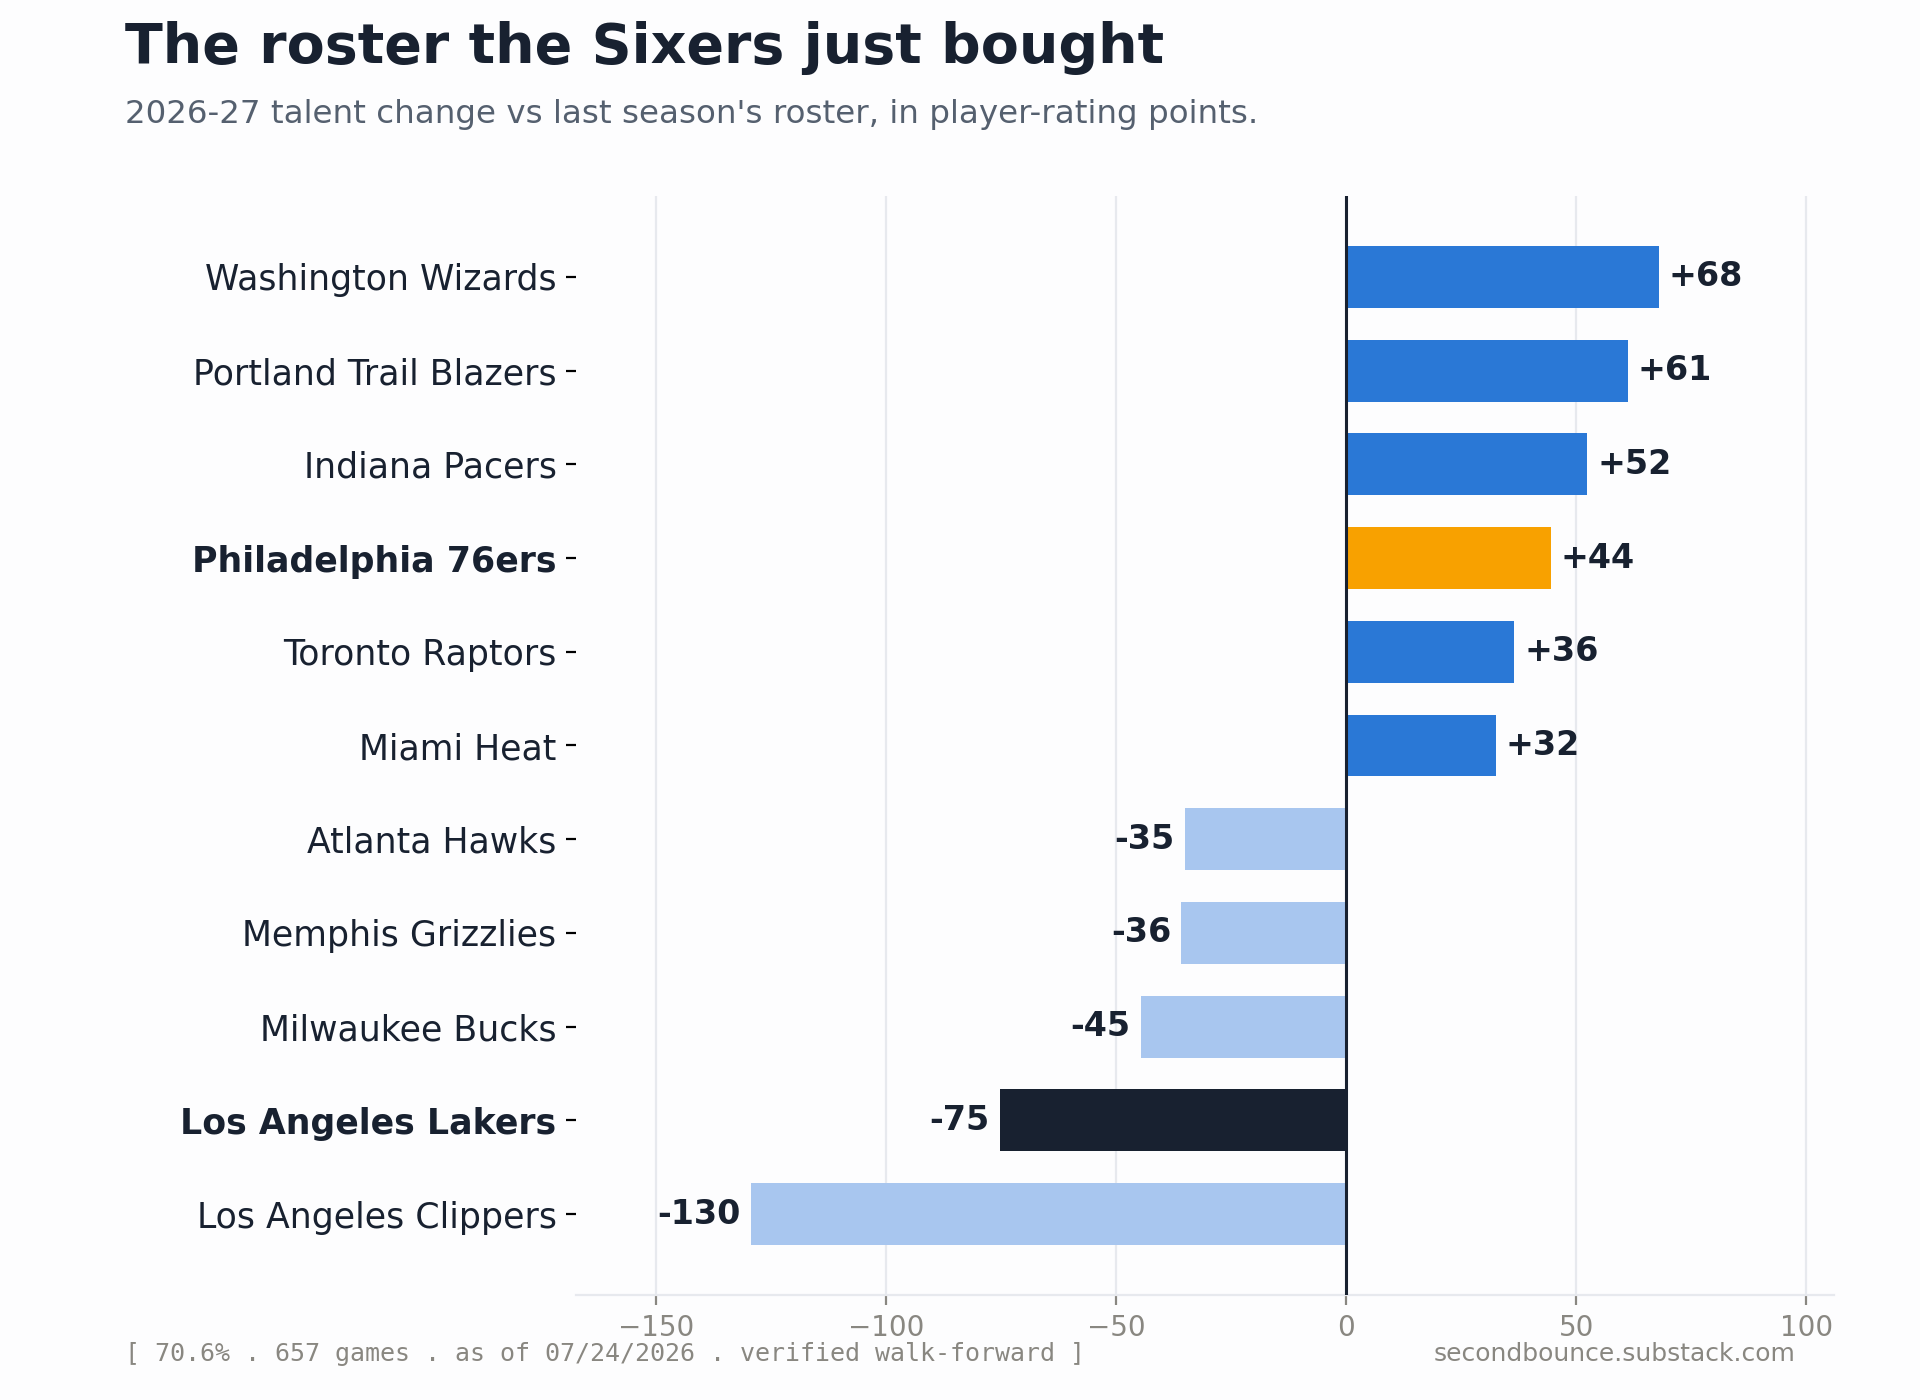
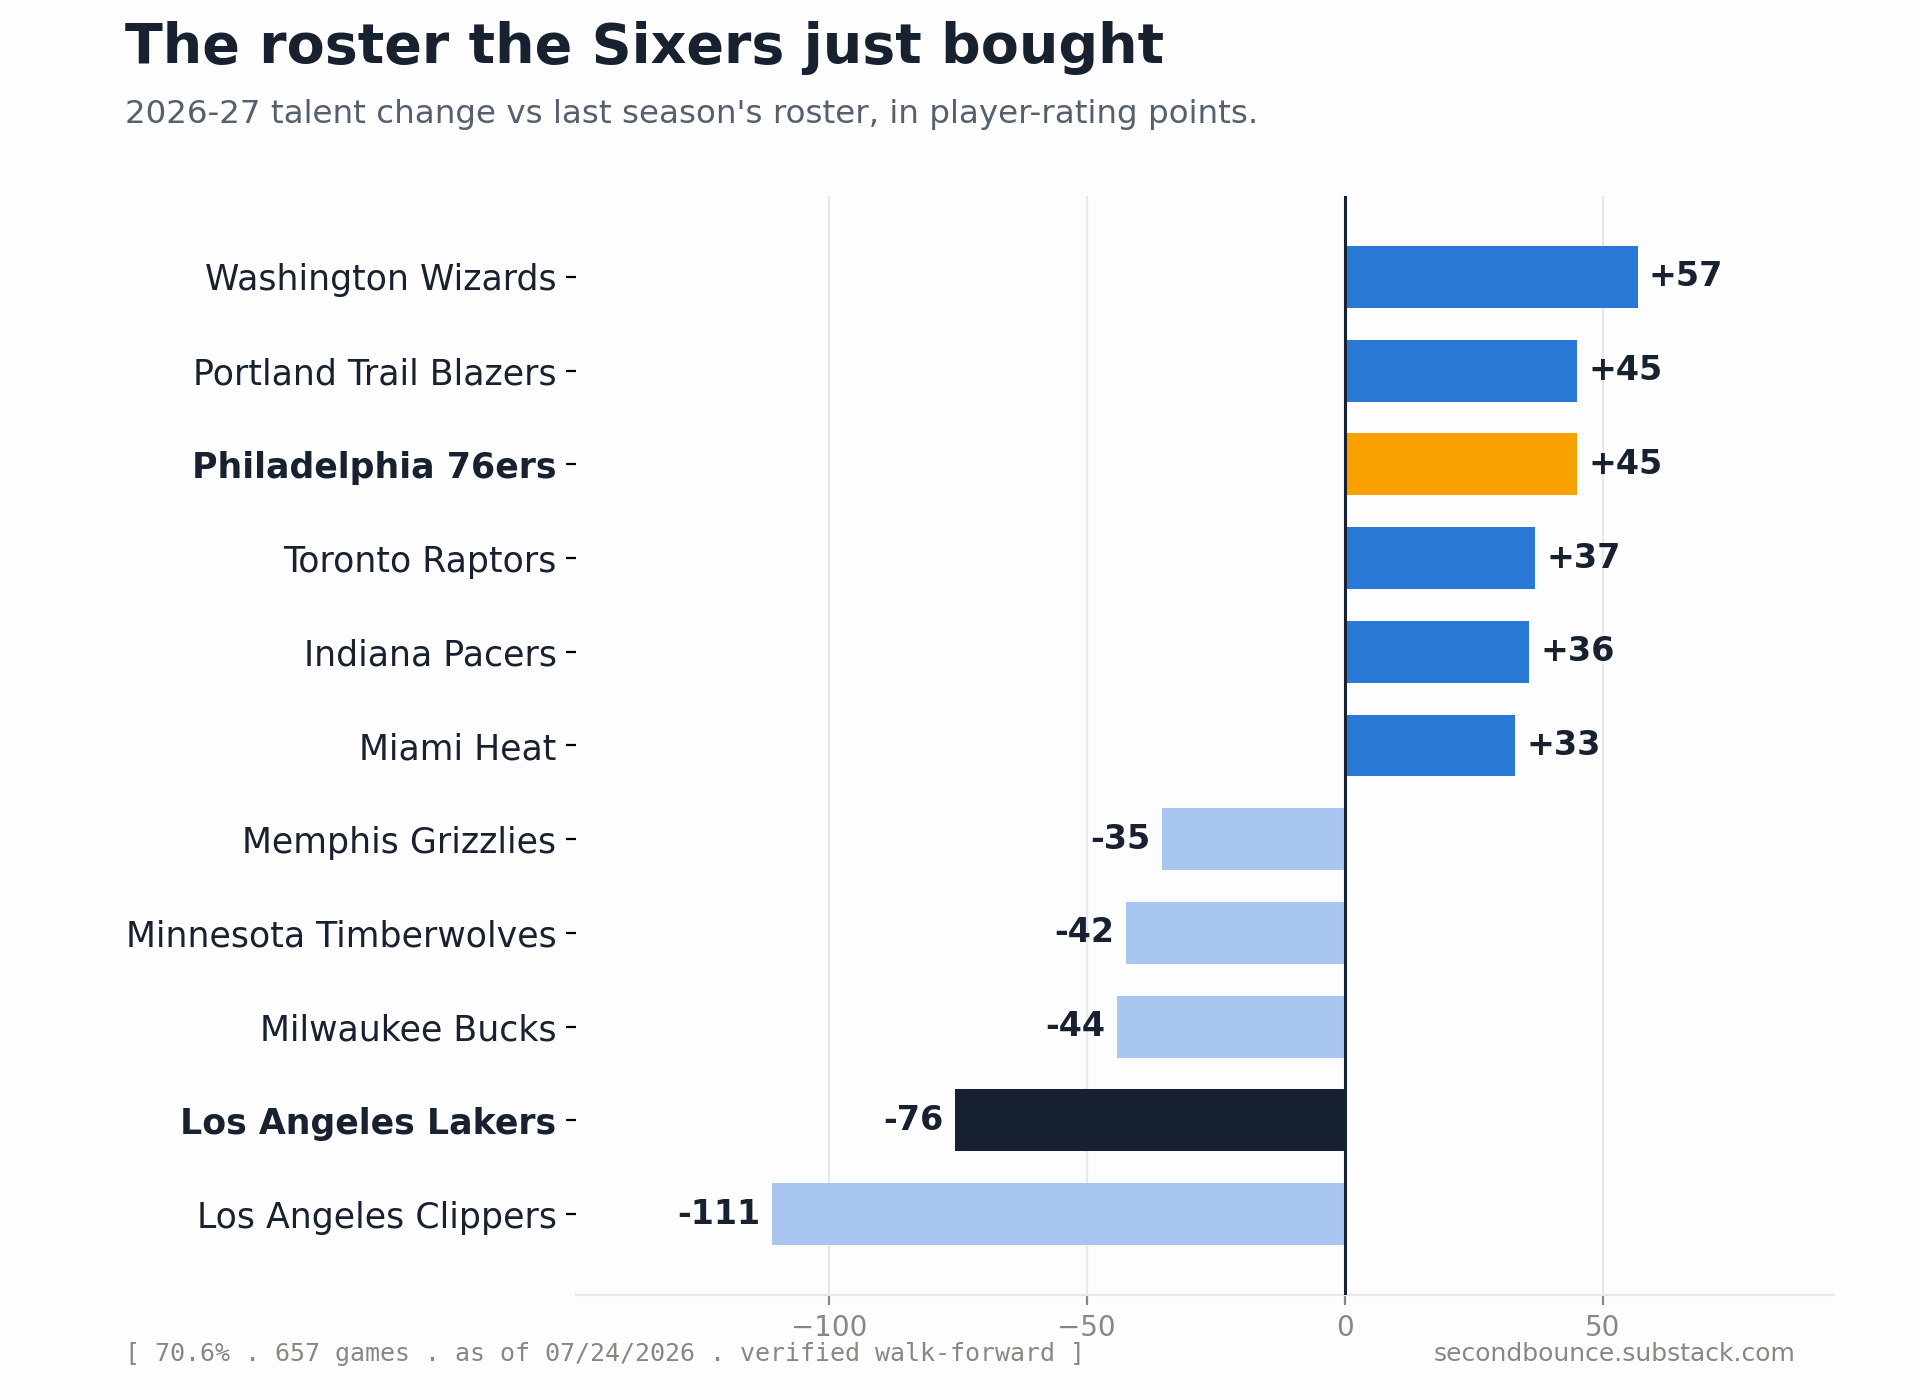
Content: add LeBron career-arc graphic + reconcile post to corrected numbers
Second graphic ("Twenty-three years of LeBron"): rise to a 2013 peak, honest glide
to 1,844 at age 41, still 13th. Post/narration/pack updated to the rebuilt overlay
(PHI +45 -> 1530, top-three summer mover; LAL -76 -> 1481). No em dashes.

diff --git a/docs/growth/posts/2026-07-24-the-last-decision.md b/docs/growth/posts/2026-07-24-the-last-decision.md
@@ -1,22 +1,26 @@
 # The Last Decision
 
-*LeBron picked Philadelphia. Our roster model moves the Sixers up 44 points, to 12th, and the names outrun the forecast.*
+*LeBron picked Philadelphia. Our roster model moves the Sixers up 45 points, to 12th, and the names outrun the forecast.*
 
 LeBron James made what he called his last decision, and it was Philadelphia.
 
 A two-year deal, reportedly worth about 8 million, at age 41. He leaves the Lakers after eight seasons and joins a Sixers core of Tyrese Maxey, VJ Edgecombe, Jaylen Brown, and Joel Embiid. On paper it reads like a superteam. Our numbers read it as something quieter, and the gap between those two readings is the whole story.
 
+Start with the man himself. Our system watched LeBron rise from league average as a rookie to a peak around 2013, and it has watched him glide down since. He is a 1,844 today, 13th in the league. That is still a very good player, better than all but a dozen others, and it is also a long way from the number he posted at 28.
+
+![LeBron's rating across 23 seasons](assets/lebron_career_arc_2026.png)
+
+That glide is the reason the forecast stays calm. Here is what the roster model does. It takes every team's rating from the end of last season, pulls it partway back toward league average (1500), because one season is a small sample and rosters turn over, and then it adds the talent a team gained or lost this summer. That talent is measured in player-rating points and kept zero-sum across the league, so nobody's gain is invented.
+
+The Sixers gain 45 of those points. That is a top-three move this offseason, trailing only Washington and level with Portland. It lifts Philadelphia from a team that finished last year at 1486, below the league line, to a preseason 1530. In the full table that is 12th.
+
 ![How the Sixers' 2026-27 forecast changed](assets/sixers_roster_move_2026.png)
 
-Here is what the roster model does. It takes every team's rating from the end of last season, pulls it partway back toward league average (1500), because one season is a small sample and rosters turn over, and then it adds the talent a team gained or lost this summer. That talent is measured in player-rating points and kept zero-sum across the league, so nobody's gain is invented.
+Twelfth is not where the marquee wants to be. But look at where they started. Philadelphia finished last season below average, and a summer of star names does not erase a season of results in our system, it sits on top of them. Add a 41-year-old LeBron and Jaylen Brown to a middling base and you get a good team with real questions, not a coronation. The model prices the health of a player in his 23rd season, and a center who has missed time, the way an actuary would, without sentiment.
 
-The Sixers gain 44 of those points. That is a real move, top four this offseason, behind only Washington, Portland, and Indiana. It lifts Philadelphia from a team that finished last year at 1486, below the league line, to a preseason 1529. In the full table that is 12th.
+The other side of the ledger is in Los Angeles. The Lakers lose 76 points, the steepest fall of any team this summer except the Clippers, and drop to 1481, 19th. That is what losing your best forecast-mover looks like when you do not replace him.
 
-Twelfth is not where the marquee wants to be. But look at where they started. Philadelphia finished last season below average, and a summer of star names does not erase a season of results in our system, it sits on top of them. Add LeBron and Jaylen Brown to a middling base and you get a good team with real questions, not a coronation. The model has watched a lot of superteams. It prices the health of a 41-year-old and a center who has missed time the way an actuary would, without sentiment.
-
-The other side of the ledger is in Los Angeles. The Lakers lose 75 points, the steepest fall of any team this summer except the Clippers, and drop to 1481, 19th. That is what losing your best forecast-mover looks like when you do not replace him.
-
-For scale, the model still has Oklahoma City on top at 1630, then San Antonio and Boston. Philadelphia sits closer to the middle of the league than to that group. LeBron chose the team he believes gives him the best chance at a title. Our numbers say he improved a contender's odds without becoming the favorite, which is a fair description of what one 41-year-old can still do.
+For scale, the model still has Oklahoma City on top at 1631, then San Antonio and Boston. Philadelphia sits closer to the middle of the league than to that group. LeBron chose the team he believes gives him the best chance at a title. Our numbers say he improved a contender's odds without becoming the favorite, which is a fair description of what one 41-year-old can still do.
 
 One honest note, because we always leave the trail. These are preseason forecast numbers from our roster model, not a game prediction, and every one of them reverts toward 1500 by design. Most good teams' ratings fall between June and October in our system. That is uncertainty, not decline. When the games start on October 21, we log a pick before tip and grade it after the final, and Philadelphia's 12th gets tested one night at a time.
 

diff --git a/docs/growth/packs/2026-07-24-lebron-sixers-pack.md b/docs/growth/packs/2026-07-24-lebron-sixers-pack.md
@@ -1,4 +1,4 @@
-# SECOND BOUNCE — POSTING PACK (2026-07-24)
+# SECOND BOUNCE, POSTING PACK (2026-07-24)
 
 Reaction: **LeBron signs with the Philadelphia 76ers.** Same-day post + social.
 All times US Central (primary), ET reference in parentheses (CT = ET - 1h).
@@ -7,53 +7,63 @@ All times US Central (primary), ET reference in parentheses (CT = ET - 1h).
 
 | Time (CT / ET) | Platform | Description | Asset |
 |---|---|---|---|
-| On publish | Substack | Reaction essay "The Last Decision" | `sixers_roster_move_2026.png` (in post), `card_lebron_sixers.png` (header) |
-| ~30 min after | X | The contrarian number (Sixers +44 but 12th) | `card_lebron_sixers.png` |
-| Same evening | X | The other side (Lakers -75, 19th) | (text only) |
-| Next morning | X | Chart crop | `sixers_roster_move_2026.png` |
-| 1-3 over the day | Substack Notes | 3 Notes below | as noted |
+| On publish | Substack | Reaction essay "The Last Decision" | header: `card_lebron_sixers.png`; in-post: `lebron_career_arc_2026.png`, `sixers_roster_move_2026.png` |
+| ~30 min after | X | The contrarian number (Sixers +45 but 12th) | `card_lebron_sixers.png` |
+| Same evening | X | The other side (Lakers -76, 19th) | text only |
+| Next morning | X | Roster chart crop | `sixers_roster_move_2026.png` |
+| Next evening | X | The career arc | `lebron_career_arc_2026.png` |
+| 1-3 over the days | Substack Notes | 3 Notes below | as noted |
 
-Media reminder: while the PC is on, drop `card_lebron_sixers.png` and
-`sixers_roster_move_2026.png` into the Discord channel so your phone has them.
-They live at `nba-elo-engine/docs/growth/posts/assets/`.
+Media reminder: while the PC is on, drop `card_lebron_sixers.png`,
+`lebron_career_arc_2026.png`, and `sixers_roster_move_2026.png` into the Discord
+channel so your phone has them. They live at
+`nba-elo-engine/docs/growth/posts/assets/`.
 
 ---
 
 ## X posts (each under 280, copy one block at a time)
 
-### X 1 — attach `card_lebron_sixers.png`
+### X 1, attach `card_lebron_sixers.png`
 
 ```
-LeBron to Philadelphia, at 41. Our roster model makes the Sixers a top-four mover of the summer, plus 44 points.
+LeBron to Philadelphia, at 41. Our roster model makes the Sixers a top-three mover of the summer, plus 45 points.
 
 It still has them 12th. A below-average base does not become a favorite in one signing.
 ```
 
-### X 2 — text only
+### X 2, text only
 
 ```
-The Lakers just lost the biggest forecast-mover left on the board. Our model drops them 75 points, to 19th, the steepest fall this summer outside the Clippers.
+The Lakers just lost the biggest forecast-mover left on the board. Our model drops them 76 points, to 19th, the steepest fall this summer outside the Clippers.
 ```
 
-### X 3 — attach `sixers_roster_move_2026.png`
+### X 3, attach `sixers_roster_move_2026.png`
 
 ```
-The roster the Sixers just bought, in one chart. Plus 44 points of talent, a preseason 1486 to 1529.
+The roster the Sixers just bought, in one chart. Plus 45 points of talent, a preseason 1486 to 1530.
+
+secondbounce.substack.com
+```
+
+### X 4, attach `lebron_career_arc_2026.png`
+
+```
+LeBron in one line. Our system had him rise to a 2013 peak and glide down since. He is a 1,844 today, still 13th in the league, and now a Sixer.
 
 secondbounce.substack.com
 ```
 
 ---
 
-## Substack Notes (post 1-3 across the day)
+## Substack Notes (post 1-3 across the days)
 
 ### Note 1
 
 ```
-LeBron called it his last decision and picked Philadelphia. Our roster model likes the move, plus 44 points, top four this offseason. It also keeps them 12th, because a season of below-average results does not vanish under new names. Full write-up on the newsletter.
+LeBron called it his last decision and picked Philadelphia. Our roster model likes the move, plus 45 points, top three this offseason. It also keeps them 12th, because a season of below-average results does not vanish under new names. Full write-up on the newsletter.
 ```
 
-### Note 2 — attach `sixers_roster_move_2026.png`
+### Note 2, attach `sixers_roster_move_2026.png`
 
 ```
 A reminder on our preseason numbers: they revert toward league average by design, so most good teams' ratings fall between June and October. That is uncertainty, not decline. The Sixers land at 12th on a base that finished below the line, now with LeBron and Jaylen Brown on top.
@@ -62,7 +72,7 @@ A reminder on our preseason numbers: they revert toward league average by design
 ### Note 3
 
 ```
-OKC is still our number one at 1630. Philadelphia's new-look roster comes in at 1529, closer to the middle of the league than to the top. LeBron improved a contender without making it the favorite.
+OKC is still our number one at 1631. Philadelphia's new-look roster comes in at 1530, closer to the middle of the league than to the top. LeBron improved a contender without making it the favorite.
 ```
 
 ---
